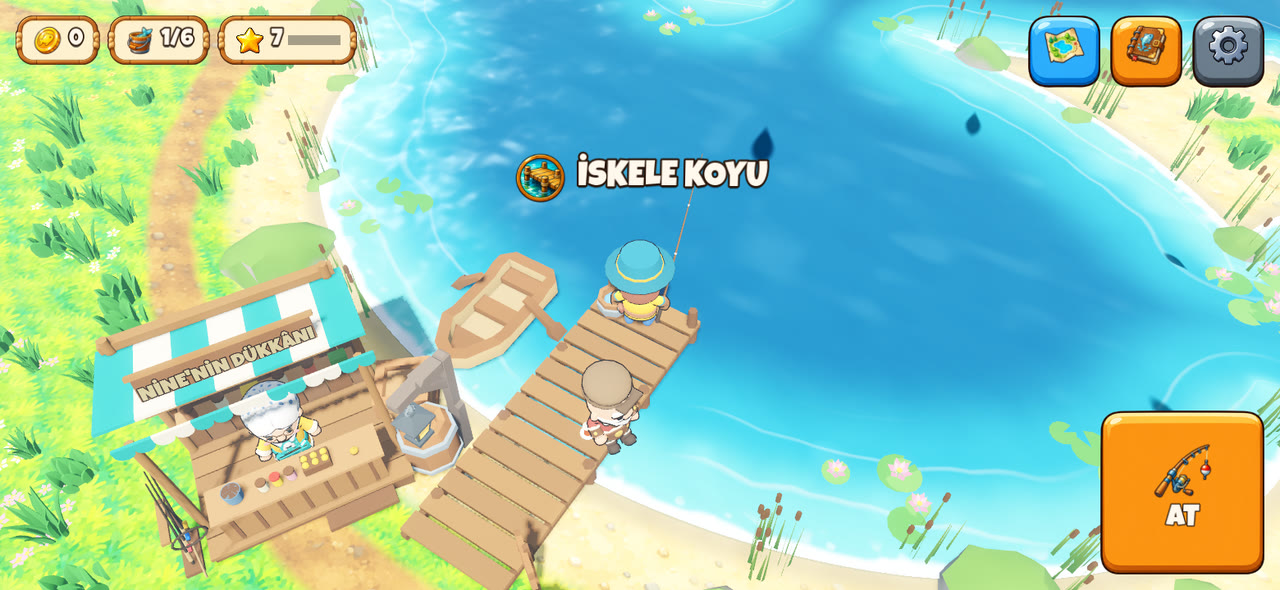
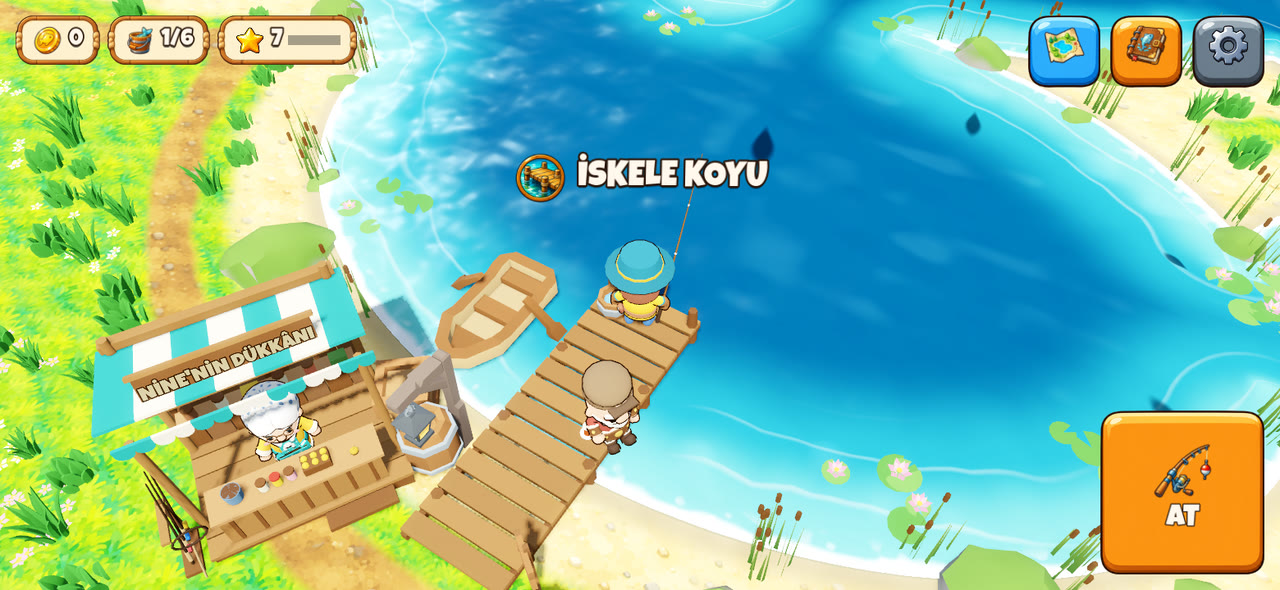
Sis: oyun alanı berrak (derinlik sisi, bloom yok)
Ersin telefonda renklerin sisli göründüğünü söyledi. Ölçüm (telefon
boyutu 2532×1170; iskele, olta sudayken, nilüferli koy):
- Üstel sis (0,006) doğrusal renk uzayında karışıyordu. Kamera 12 m'de
  olduğundan %7'lik sis bile koyu tonları açıyor, bütün görüntüyü
  pusluyordu. Sis kapatılınca doygunluk %22–24, kontrast %26–29
  artıyor; en koyu %5'in parlaklığı 0,54'ten 0,41'e iniyor.
- Bloom'un (0,03) etkisi ölçülemeyecek kadar azdı.

Değişiklik (LakeScene._build_environment):
- Derinlik sisi (FOG_MODE_DEPTH): 35 m'de başlar, 140 m'de en çok %45.
  Oyun alanında (kameranın ~20 m'si) pus yok; yakın çekimde uzak kıyı
  ve tepeler hafif puslu. Compatibility'de çalıştığı görüntüyle
  sınandı.
- Bloom kapandı. Parlama yalnızca gerçekten parlak yerlerde: ışık
  sütunu, su parıltısı.
- Doygunluk ayarı (1,16) kalktı. Pusu dengelemek içindi; pus gidince
  çimen fazla sarı-yeşil çıkıyordu.

Denetim: 175 test geçti; ana sahne hatasız; tour botunda çizim
sayıları aynı (iskele 140, öteki yerler 88–114, sandal 98); first, map
ve video botları TAMAM. README'nin on bir görüntüsü yeni ışıkla
yeniden çekildi. CLAUDE.md'ye sis tuzağı, GDD §8'e ışık ve pus, yol
haritasının v0.3.1 bölümüne madde eklendi.

Claude-Session: https://claude.ai/code/session_01V8Ty9xVE3n1qqdFai2Pwte

diff --git a/CLAUDE.md b/CLAUDE.md
@@ -196,7 +196,11 @@ Kazı'nın yapısı. ✅ = var, 🔜 = sıradaki adımlarda.
 - KayKit Rogue'da baş yuvası yok (yalnızca `handslot_r` / `handslot_l`): şapka, `head` kemiğine bağlanan bir `BoneAttachment3D`'ye takılır. El yuvasında nişan duruşlarında +X ileri, +Y yukarı bakar; olta bu yüzden +X'e göre kurulur (`AnglerBody.ROD_TILT`).
 - `-s` ile çalışan araçlarda eklenen düğümlerin `_ready()`'si ilk karede çalışır: `_ready`'de kurulan parçalara (ör. `rod_mount`) `_initialize`'da değil, ilk `_process` karesinde dokun. Animasyonu `seek` ile ölçmek de ancak kareler ilerledikten sonra doğru sonuç verir.
 - Headless çalışmada (testler, `--headless`) `SubViewport` çizilmez: `PortraitStudio` null döner, kartta yer tutucu madalyon, ipucu çubuğunda yer tutucu ikon kalır.
-- Sahne ton eşlemesi (Filmic, `tonemap_white` 6) ve sis 3B'deki ışıksız beyazı da griye çeker: arayüz gibi görünmesi gereken parçalar (konuşma balonu) 2B çizilir ve her kare `unproject_position` ile 3B noktaya taşınır.
+- Sahne ton eşlemesi (Filmic, `tonemap_white` 6) 3B'deki ışıksız beyazı da griye çeker: arayüz gibi görünmesi gereken parçalar (konuşma balonu) 2B çizilir ve her kare `unproject_position` ile 3B noktaya taşınır.
+- Üstel sis doğrusal renk uzayında karışır. Kameranın 12 m'sinde %7'lik sis bile koyuları açar ve bütün görüntüyü puslu yapar (Ersin telefonda "sisli" dedi).
+  - Göl sahnesinde derinlik sisi (`FOG_MODE_DEPTH`; Compatibility'de çalışır) oyun alanının dışında başlar (`LakeScene.FOG_BEGIN`).
+  - Doygunluk ayarı yok.
+  - Işıkla oynarken telefon boyutundaki ekran görüntülerini karşılaştır: doygunluğu ve en koyu %5'in parlaklığını ölç.
 - Kamera +x +z tarafında ve yukarıdan bakar: bir karakterin yüzü yalnızca kameraya dönükken görünür. Dede bu yüzden kameraya üçte bir dönük oturur ve konuşurken başını kameraya kaldırır (`LookModifier` yukarı bakış).
 - Balıkçı düz çizgide yürür: yoldaki engeller (Dede) `Angler.avoid` ile çevreden kayılarak geçilir; durdurmak yerine kaydırmak, "karaya dokun" yürüyüşünün takılmamasını sağlar.
 - Video kaydında (Movie Maker) oyun zamanı gerçek saatten yavaş akar; bot döngülerinde kare sayısı kullan. Kayıtta `OS.has_feature("movie")` true: hata ayıklama FPS etiketi gizlenir.

diff --git a/docs/gdd.md b/docs/gdd.md
@@ -264,6 +264,10 @@ Bütün sayılar `data/*.json`'da ve testlerde. Telefonda denendikçe ayarlanır
   - Kartın balık resmi aynı modelden açılışta çizilir (Ersin'in balık görselleri gelince onlar kullanılır).
 - **Olta:** 2,3 m, üç eklemli; çekişmede gerilimle bükülür, gerilim yüksekken titrer. Serbestken dik taşınır.
 - **Çevre:** iskele (tahta), sazlık, KayKit ağaç, kaya, çadır, fıçı ve fenerleri; Kazı'nın çimeni, ışığı ve ortamı.
+- **Işık ve pus:**
+  - Sıcak güneş, serin dolgu ışığı, Filmic ton eşleme ve hafif kontrast.
+  - Sis yalnızca uzakta. Kamera oyun alanını ~20 m'ye kadar görür; derinlik sisi 35 m'de başlar, 140 m'de en çok %45 örter (yakın çekimde uzak kıyı ve tepeler). Parlama yalnızca gerçekten parlak yerlerde (ışık sütunu, su parıltısı).
+  - v0.3.1'den önce üstel sis bütün görüntüyü puslu yapıyordu (Ersin telefonda "sisli" dedi). Telefon boyutunda ölçüm: doygunluk %22–24, kontrast %26–29 düşüktü; en koyu tonlar açılmıştı.
 - **Dış çizgi** yalnızca karakterlerde ve balıklarda.
 - **Erişilebilirlik:** gerilim çubuğu renk + ikon + sarsıntı + "BIRAK!" yazısı. Her sesin bir görsel ve titreşim karşılığı var.
 - **H2 görsel hedefleri 🔜:**

diff --git a/docs/yol-haritasi.md b/docs/yol-haritasi.md
@@ -97,6 +97,7 @@ Ersin Parti 1–2 görsellerini (19 sayfa) ve Mac'te indirdiği CC0 3D paketleri
 
 - [x] Parti 3 görselleri oyunda: zemin dokuları (çimen, kum, toprak yol, yosunlu taş), bölge rozetleri (harita ve bildirimler), harita kâğıdı ve çıkartmaları (sazlık, nilüfer, kayalar, ağaçlar, sandal, dükkân), harita ikonları (iğne, kilit, pusula, şamandıra, çit tabelası) ve "Kıyıya dön" düğmesinde çapa.
 - [x] Parti 4 görselleri (teknikler) kesildi; teknikler Dalga 3'te geldikçe oyuna girer.
+- [x] Sis: oyun alanı berrak. Üstel sis yerine 35 m'de başlayan derinlik sisi, bloom yok, doygunluk ayarı kalktı (Ersin: "telefonda sisli").
 - [ ] Telefonda deneme ve hız ölçümü: Ersin'in sorun listesi.
 
 **Dalga 3 — Teknikler → v0.4**
